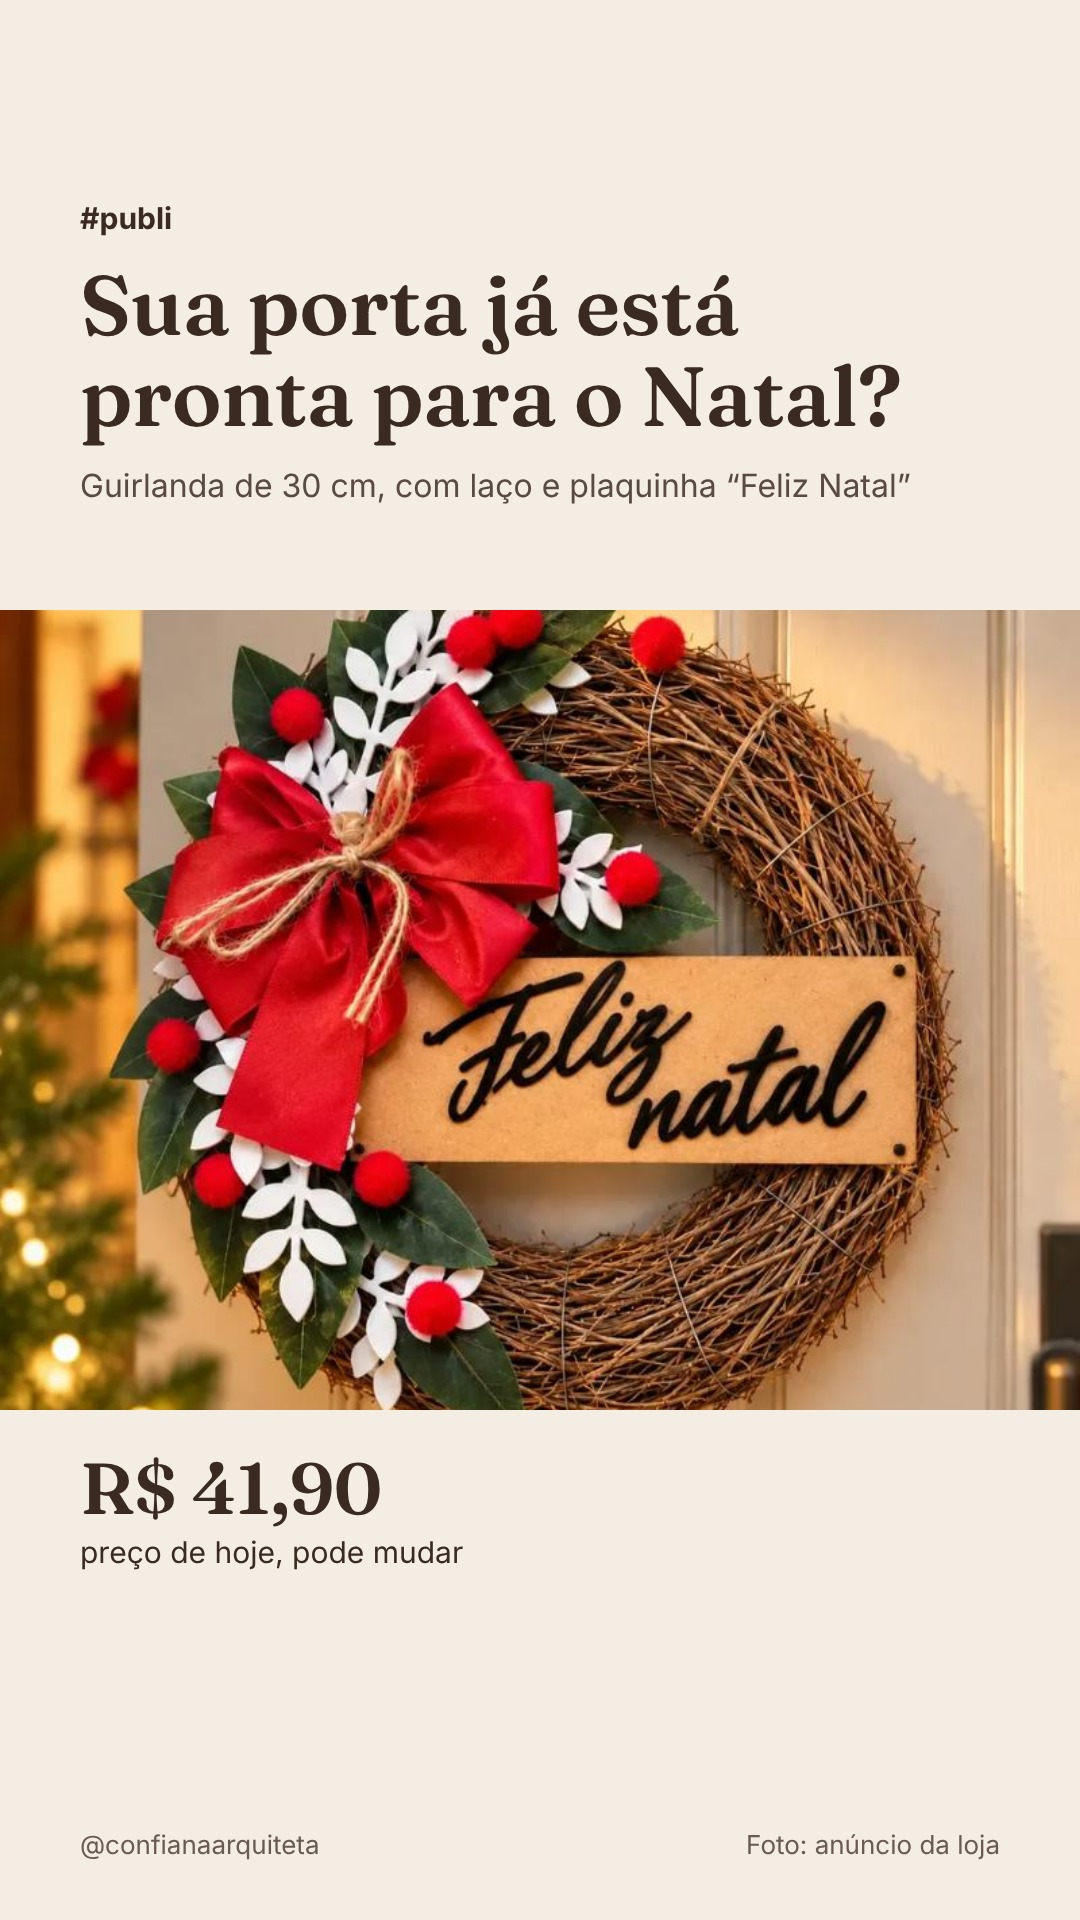
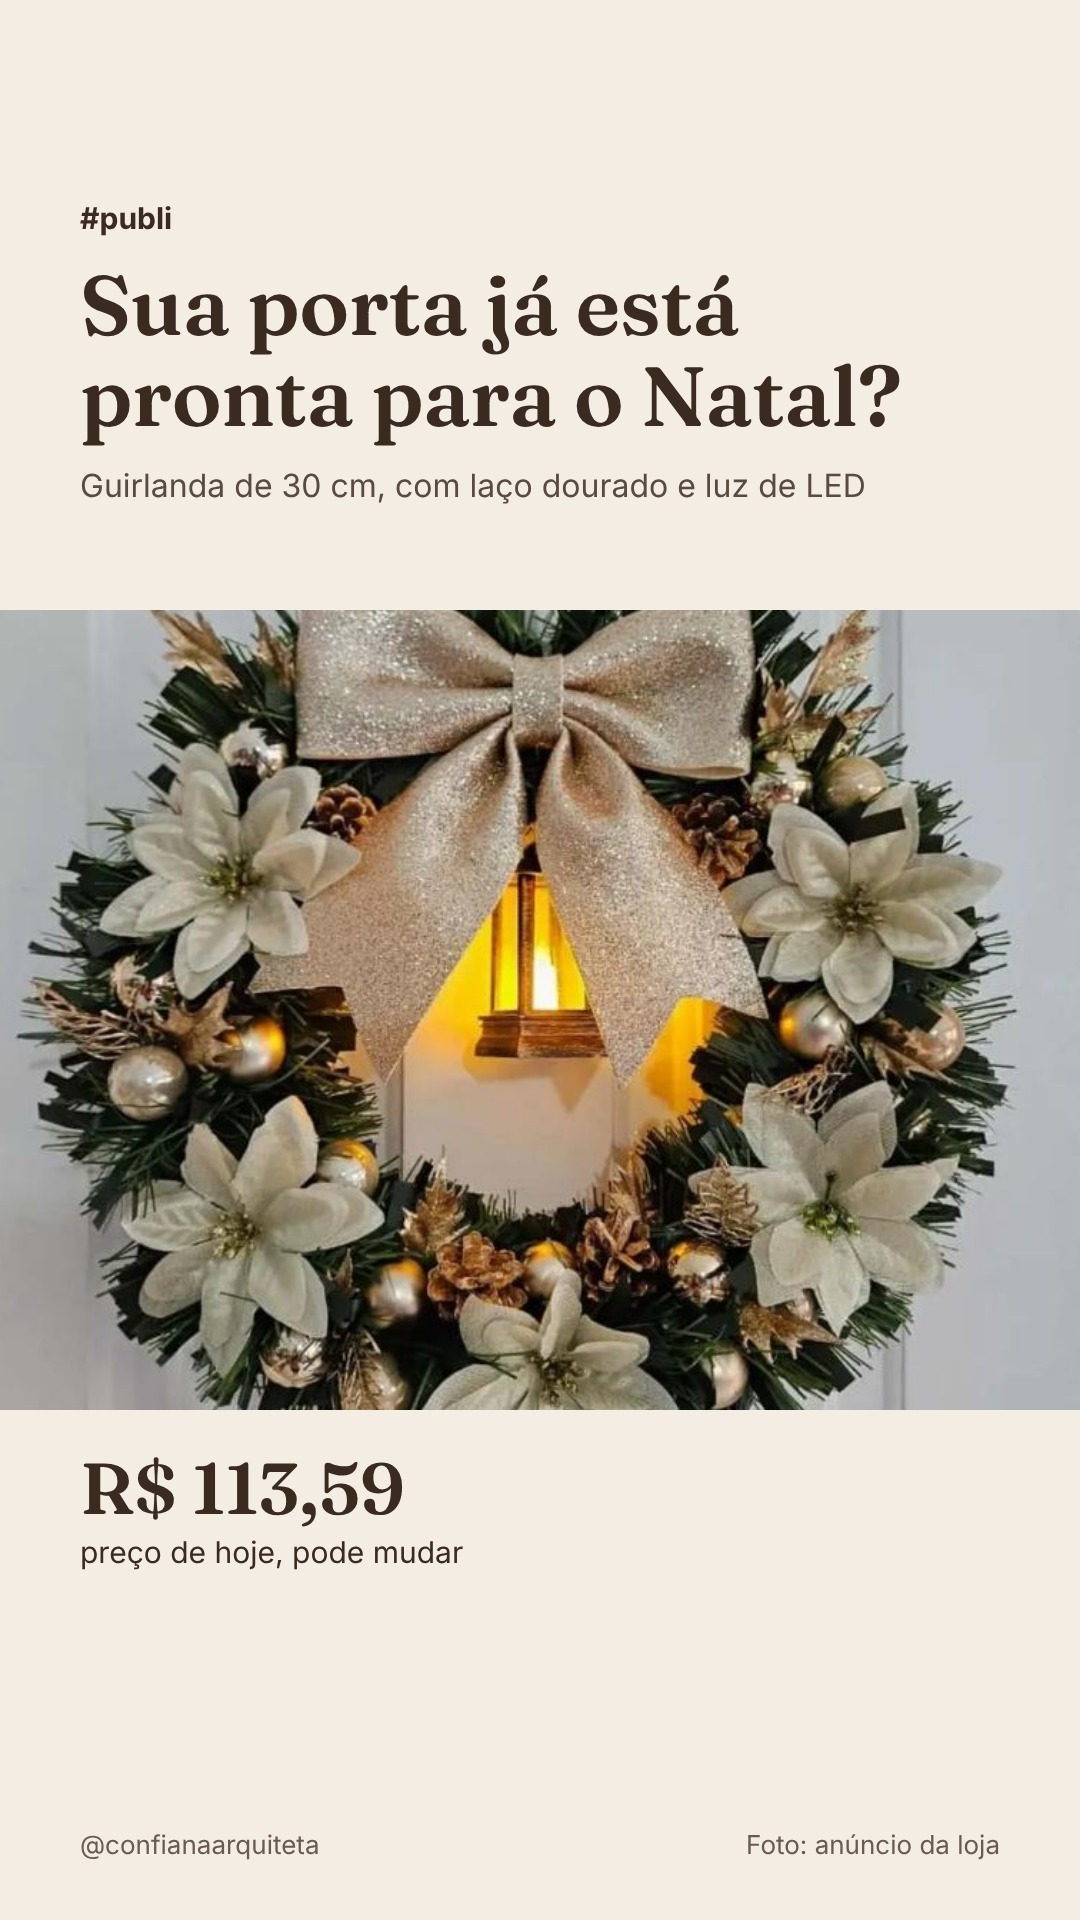
28/11: troca da guirlanda (foto real) - guirlanda dourada com LED
Claude-Session: https://claude.ai/code/session_01CPcLpKgkBGrynrNwW4hLZP

diff --git a/d-2026-11-28/fonte/build.py b/d-2026-11-28/fonte/build.py
@@ -28,7 +28,6 @@ ARTS["item1-feed"] = page(1080, 1350, """
 <div class="abs" style="left:0;top:262px;width:1080px;height:70px;background:linear-gradient(rgba(60,38,26,.55),rgba(60,38,26,0))"></div>
 <div class="abs" style="left:72px;top:40px"><span class="pill">APROVADO PELA ARQUI</span></div>
 <div class="abs h w ts" style="left:72px;top:112px;font-size:66px;width:980px;white-space:nowrap">Sua porta já está pronta<br>para o Natal?</div>
-<div class="abs" style="left:72px;bottom:48px"><span class="tag">Comenta QUERO e receba o link 🤎</span></div>
 <div class="abs ts" style="right:36px;bottom:14px;font-size:21px;color:#fff;opacity:.92">#publi · Foto: anúncio da loja</div>
 """)
 
@@ -64,8 +63,8 @@ def story(img, title, sub, price, price_sub, photo_pos="center"):
 <div class="abs" style="right:80px;bottom:60px;font-size:26px;color:#6b5a52">Foto: anúncio da loja</div>
 """)
 
-ARTS["item1-story-link"] = story("i1-a.jpg", "Sua porta já está<br>pronta para o Natal?", "Guirlanda de 30 cm, com laço e plaquinha “Feliz Natal”",
-                                 "R$ 41,90", "preço de hoje, pode mudar", "center 45%")
+ARTS["item1-story-link"] = story("i1-a.jpg", "Sua porta já está<br>pronta para o Natal?", "Guirlanda de 30 cm, com laço dourado e luz de LED",
+                                 "R$ 113,59", "preço de hoje, pode mudar", "center 50%")
 ARTS["item2-story-link"] = story("i2-c.jpg", "Para o brinde<br>de fim de ano", "6 taças de cristal Bohemia, de 220 ml cada",
                                  "R$ 78,90", "preço de hoje, pode mudar", "center 60%")
 ARTS["item3-story-link"] = story("i3-a.jpg", "Repara no babado<br>de macramê", "Rede de algodão, tecido de 2,80 x 1,50 m",

diff --git a/d-2026-11-28/legendas.md b/d-2026-11-28/legendas.md
@@ -1,13 +1,13 @@
 # 28/11/2026 — 3 posts de feed (aguardando ok da Maira)
 
-## 12h · Foto única · Guirlanda de Natal 30 cm (item1-feed.jpg · story: item1-story-link.jpg)
-Link: https://meli.la/2KSBVh6
+## 12h · Foto única · Guirlanda de Natal dourada 30 cm com luz de LED (item1-feed.jpg · story: item1-story-link.jpg)
+Link: https://meli.la/1GkEVZZ
 
-#publi A porta é a primeira coisa que a sua visita vê no Natal… e essa guirlanda já deixa o clima pronto antes de alguém tocar a campainha 🎄
+#publi Uma lanterninha acesa no meio da guirlanda… é esse detalhe que deixa a entrada da casa aconchegante nas noites de dezembro ✨
 
-Ela tem 30 cm de diâmetro, laço vermelho, frutinhas, folhagens e a plaquinha "Feliz Natal". Chega pronta, é só pendurar: na porta de entrada, na parede da sala ou perto da árvore.
+Ela tem 30 cm de diâmetro, laço dourado com brilho, flores claras, pinhas e a luz de LED.
 
-Detalhe pequeno, efeito grande, por menos de R$ 45.
+O tom dourado com creme combina com quase toda porta, da branca à de madeira, e foge do vermelho de sempre.
 
 Comenta QUERO que eu te mando o link 🤎
 
